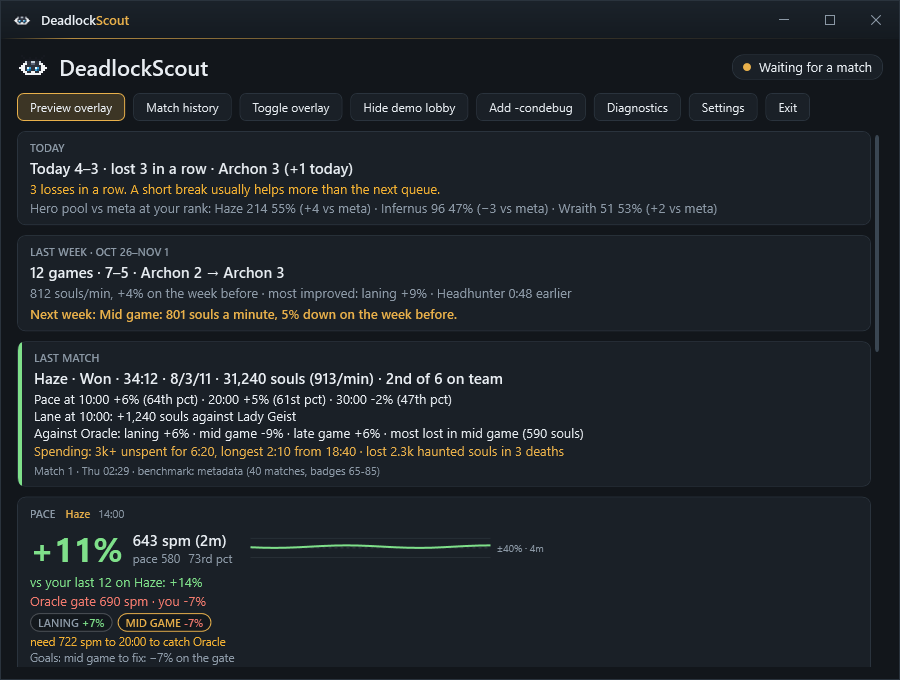
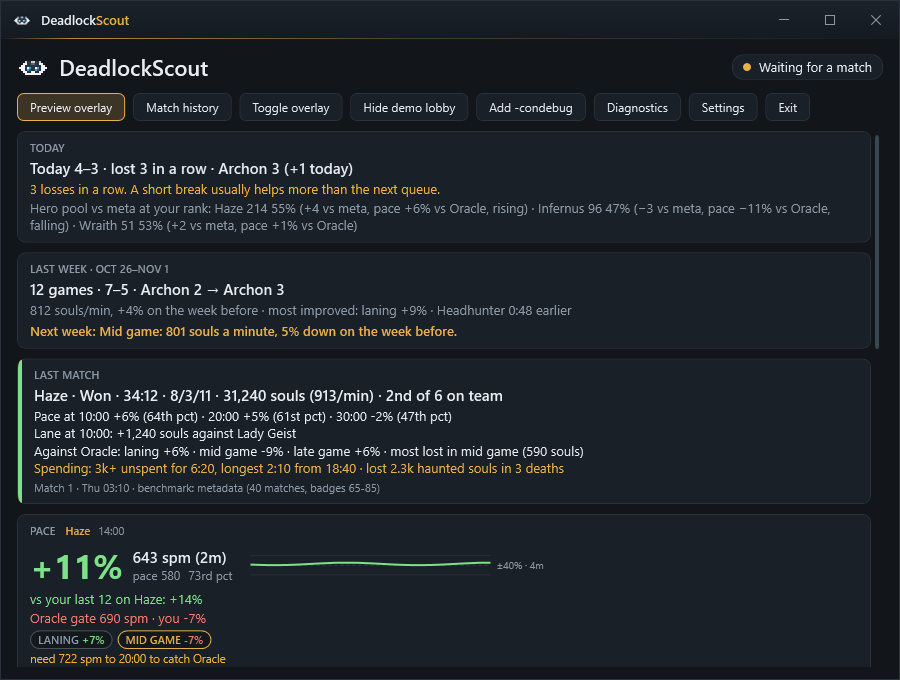
Hero pool: each hero's pace against the rank gate (#146)
* Roadmap: plan 0.4 (spending, enemy item spikes, your hero pool)

Eight lines chosen by the owner on Nov 5: affordable now, enemy item
spikes, lane phase summary and OCR box presets in the match; hero pool,
tilt check, patch changes for you and teammate record between matches.
CLAUDE.md points code work at 0.4 while 0.3's checks wait on a match.

Claude-Session: https://claude.ai/code/session_01LSDkBn23Na5vMSKWLtGadZ

* Roadmap 0.4: build hero pool and tilt check on what the session view has

The session view already lists the most played heroes against the meta
and nudges after three losses in a row; the two lines now add pace per
hero, a pace-based trigger and a tray message on top of those.

Claude-Session: https://claude.ai/code/session_01LSDkBn23Na5vMSKWLtGadZ

* Roadmap 0.4: drop enemy item spikes and the lane phase summary

Both are already in the app: the enemy pace board's power-spike alerts,
and the live phase chips, sparkline legend and post-match lane line.
The OCR presets line says where its boxes come from.

Claude-Session: https://claude.ai/code/session_01LSDkBn23Na5vMSKWLtGadZ

* Hero pool: each hero's pace against the rank gate

The session view's hero pool (most played, win rate against the meta)
now adds each hero's souls against the rank gate over your last ten
games of ten minutes or more on it, and the trend of the newer games
against the older ones: "Abrams 96 47% (−1 vs meta, pace −11% vs
[…]

diff --git a/src/DeadlockScout.Core/Session/SessionMath.cs b/src/DeadlockScout.Core/Session/SessionMath.cs
@@ -1,3 +1,4 @@
+using DeadlockScout.Core.Benchmarks;
 using DeadlockScout.Core.Models;
 
 namespace DeadlockScout.Core.Session;
@@ -14,12 +15,20 @@ public sealed record SessionSummary(int Wins, int Losses, int Streak, int? Badge
 }
 
 /// <summary>One of your most played heroes against how that hero does in your bracket.</summary>
-public sealed record HeroPoolRow(int HeroId, int Matches, int Wins, double? MetaWinRate)
+/// <param name="Pace">Your souls against the rank gate's on this hero over your recent games; null without them or the gate.</param>
+public sealed record HeroPoolRow(int HeroId, int Matches, int Wins, double? MetaWinRate, HeroPace? Pace = null)
 {
     public double WinRate => Matches == 0 ? 0 : (double)Wins / Matches;
     /// <summary>Your win rate minus the hero's meta win rate; null without meta data.</summary>
     public double? VersusMeta => MetaWinRate is { } meta ? WinRate - meta : null;
 }
+
+/// <summary>
+/// Your recent games on a hero against the rank gate: each game's final net worth over the gate curve's at that game's
+/// length, as a fraction (+0.05 = 5% more souls than the gate's players), averaged. <paramref name="Trend"/> is the newer
+/// half's average less the older half's, null under <see cref="SessionMath.MinTrendGames"/> games.
+/// </summary>
+public sealed record HeroPace(int Games, double VersusGate, double? Trend, string GateRank);
 
 /// <summary>Pure session reductions, for tests. Nothing here is stored; the view recomputes on each refresh.</summary>
 public static class SessionMath
@@ -56,6 +65,60 @@ public static class SessionMath
     /// <summary>A gentle nudge after <paramref name="threshold"/> losses in a row; null otherwise or when turned off (0).</summary>
     public static string? Nudge(SessionSummary s, int threshold)
         => threshold > 0 && s.Streak <= -threshold ? $"{-s.Streak} losses in a row. A short break usually helps more than the next queue." : null;
+
+    /// <summary>Games on a hero the pace looks back over, newest first.</summary>
+    public const int PaceGames = 10;
+    /// <summary>Games a hero needs before its trend is said (half of them against the other half).</summary>
+    public const int MinTrendGames = 4;
+    /// <summary>A trend smaller than this either way is "steady".</summary>
+    public const double SteadyTrend = 0.03;
+    /// <summary>Games shorter than this are left out: remakes and early abandons say nothing about pace.</summary>
+    public static readonly TimeSpan MinPaceDuration = TimeSpan.FromMinutes(10);
+
+    /// <summary>
+    /// The pool's rows with <see cref="HeroPoolRow.Pace"/> filled from your match history: your last
+    /// <see cref="PaceGames"/> games of ten minutes or more on each hero, against <paramref name="gate"/>'s curve for that
+    /// hero (null when there is none). Computed at render time, never stored.
+    /// </summary>
+    public static IReadOnlyList<HeroPoolRow> WithPace(IReadOnlyList<HeroPoolRow> pool, IReadOnlyList<MatchHistoryEntry> history,
+                                                      Func<int, PaceCurve?> gate, string gateRank)
+        => pool.Select(row => row with { Pace = Pace(row.HeroId, history, gate(row.HeroId), gateRank) }).ToList();
+
+    public static HeroPace? Pace(int heroId, IReadOnlyList<MatchHistoryEntry> history, PaceCurve? gate, string gateRank)
+    {
+        if (gate is null || gate.Points.Count < 2) return null;
+        var ratios = history
+            .Where(h => h.HeroId == heroId && h.Duration >= MinPaceDuration && h.NetWorth > 0)
+            .OrderByDescending(h => h.StartTime).ThenByDescending(h => h.MatchId)
+            .Take(PaceGames)
+            .Select(h => (Gate: PaceMath.NetWorthAt(gate, h.Duration), h.NetWorth))
+            .Where(x => x.Gate > 0)
+            .Select(x => x.NetWorth / x.Gate - 1)
+            .ToList();
+        if (ratios.Count == 0) return null;
+        double? trend = null;
+        if (ratios.Count >= MinTrendGames)
+        {
+            int half = ratios.Count / 2;
+            trend = ratios.Take(half).Average() - ratios.Skip(ratios.Count - half).Average();
+        }
+        return new HeroPace(ratios.Count, ratios.Average(), trend, gateRank);
+    }
+
+    /// <summary>"pace −6% vs Oracle, rising": the hero pool's pace part, or null without one.</summary>
+    public static string? PaceText(HeroPace? pace)
+    {
+        if (pace is null) return null;
+        string pct = $"{(pace.VersusGate >= 0 ? "+" : "−")}{Math.Abs(pace.VersusGate * 100):0}%";
+        string trend = pace.Trend switch
+        {
+            null => "",
+            > SteadyTrend => ", rising",
+            < -SteadyTrend => ", falling",
+            _ => ", steady",
+        };
+        return $"pace {pct} vs {pace.GateRank}{trend}";
+    }
 
     /// <summary>Your most played heroes (all-time totals), each against its meta win rate in your bracket.</summary>
     public static IReadOnlyList<HeroPoolRow> HeroPool(IEnumerable<PlayerHeroStats> mine, IEnumerable<AnalyticsHeroStats> meta, int count)

diff --git a/tests/DeadlockScout.Tests/Core/SessionTests.cs b/tests/DeadlockScout.Tests/Core/SessionTests.cs
@@ -1,4 +1,5 @@
 using DeadlockScout.Core.Abstractions;
+using DeadlockScout.Core.Benchmarks;
 using DeadlockScout.Core.Models;
 using DeadlockScout.Core.Session;
 using DeadlockScout.Core.Settings;
@@ -115,5 +116,59 @@ public class SessionTests
         var partial = (await failing.RefreshAsync(1000, default))!;
         Assert.Empty(partial.HeroPool);
         Assert.Equal(5, partial.Today.Games);
+    }
+
+    private static PaceCurve Gate(int heroId) => new(heroId, new RankBracket(80, 89), "v1",
+        Enumerable.Range(0, 51).Select(m => new PacePoint(m, null, null, null, m * 1000)).ToList(), 1000, "analytics"); // 1,000 souls a minute
+
+    private static MatchHistoryEntry Game(long id, int hero, int minutes, int netWorth) => History[0] with
+    {
+        MatchId = id, HeroId = hero, Duration = TimeSpan.FromMinutes(minutes), NetWorth = netWorth,
+        StartTime = DateTimeOffset.Parse("2026-10-20T20:00Z").AddHours(id),
+    };
+
+    [Fact]
+    public void Hero_pace_is_each_recent_game_against_the_gate_at_its_length_with_a_trend()
+    {
+        var games = new[]
+        {
+            Game(1, 13, 30, 27_000), Game(2, 13, 30, 27_000),   // older: 10% under the gate
+            Game(3, 13, 20, 22_000), Game(4, 13, 40, 44_000),   // newer: 10% over, whatever the game's length
+            Game(5, 13, 5, 1_000),                              // a remake: left out
+            Game(6, 1, 30, 30_000),                             // another hero
+        };
+        var pace = SessionMath.Pace(13, games, Gate(13), "Oracle")!;
+        Assert.Equal(4, pace.Games);
+        Assert.Equal(0.0, pace.VersusGate, 6);
+        Assert.Equal(0.2, pace.Trend!.Value, 6);
+        Assert.Equal("pace +0% vs Oracle, rising", SessionMath.PaceText(pace));
+
+        var few = SessionMath.Pace(13, games.Take(3).ToList(), Gate(13), "Oracle")!;
+        Assert.Null(few.Trend);                                  // three games: no trend yet
+        Assert.Equal("pace −3% vs Oracle", SessionMath.PaceText(few));
+        Assert.Null(SessionMath.Pace(13, games, null, "Oracle"));  // no gate curve for the hero
+        Assert.Null(SessionMath.Pace(7, games, Gate(7), "Oracle")); // no games on it
+        Assert.Equal("pace −12% vs Oracle, falling", SessionMath.PaceText(new HeroPace(6, -0.12, -0.05, "Oracle")));
+        Assert.Equal("pace +4% vs Oracle, steady", SessionMath.PaceText(new HeroPace(6, 0.04, 0.01, "Oracle")));
+    }
+
+    private sealed class GateStub : IPaceBenchmark
+    {
+        public RankBracket? Asked;
+        public int Priority => 1;
+        public string Name => "analytics";
+        public Task<PaceCurve?> GetAsync(int heroId, RankBracket bracket, CancellationToken ct) { Asked = bracket; return Task.FromResult<PaceCurve?>(Gate(heroId)); }
+    }
+
+    [Fact]
+    public async Task Service_adds_the_gate_pace_to_the_hero_pool()
+    {
+        var gate = new GateStub();
+        var svc = new SessionService(new SessionApi(), new ScoutingServiceTests.MemoryCacheStub(), new Patch(), new Clock(),
+            new ApiClientTests.StaticOptions(new ScoutSettings()), Zone, gate: gate);
+        var row = (await svc.RefreshAsync(1000, default))!.HeroPool.Single();
+        Assert.NotNull(gate.Asked);
+        Assert.Equal(RankGoal.Bracket(RankGoal.Resolve(new GoalSettings(), 73)), gate.Asked);  // the tier above badge 73
+        Assert.Equal(RankGoal.Name(RankGoal.Resolve(new GoalSettings(), 73)), row.Pace?.GateRank);
     }
 }

diff --git a/src/DeadlockScout.Core/Session/SessionService.cs b/src/DeadlockScout.Core/Session/SessionService.cs
@@ -26,10 +26,16 @@ public sealed class SessionService
     private readonly IOptionsMonitor<ScoutSettings> _settings;
     private readonly TimeZoneInfo _zone;
     private readonly ILogger _log;
+    private readonly IPaceBenchmark? _gate;
 
+    /// <param name="gate">
+    /// The rank gate's curves (the analytics provider: one cached pass per bracket answers every hero), for the hero
+    /// pool's pace; null leaves it out.
+    /// </param>
     public SessionService(IDeadlockApi api, ICache cache, IPatchKeyProvider patch, IClock clock, IOptionsMonitor<ScoutSettings> settings,
-                          TimeZoneInfo? zone = null, ILogger<SessionService>? log = null)
+                          TimeZoneInfo? zone = null, ILogger<SessionService>? log = null, IPaceBenchmark? gate = null)
     {
+        _gate = gate;
         _api = api;
         _cache = cache;
         _patch = patch;
@@ -62,6 +68,18 @@ public sealed class SessionService
         }
         catch (OperationCanceledException) when (ct.IsCancellationRequested) { throw; }
         catch (Exception ex) { _log.LogDebug(ex, "Hero pool unavailable"); }
+
+        // Each hero's recent pace against the rank gate; the pool still shows without it.
+        if (_gate is not null && pool.Count > 0)
+            try
+            {
+                int tier = RankGoal.Resolve(cfg.Goal, today.BadgeNow);
+                var curves = new Dictionary<int, PaceCurve?>();
+                foreach (var row in pool) curves[row.HeroId] = await _gate.GetAsync(row.HeroId, RankGoal.Bracket(tier), ct).ConfigureAwait(false);
+                pool = SessionMath.WithPace(pool, history, h => curves.GetValueOrDefault(h), RankGoal.Name(tier));
+            }
+            catch (OperationCanceledException) when (ct.IsCancellationRequested) { throw; }
+            catch (Exception ex) { _log.LogDebug(ex, "Hero pool pace unavailable"); }
 
         return new SessionView(today, SessionMath.Nudge(today, cfg.Session.LossStreakNudge), pool, bracket);
     }

diff --git a/src/DeadlockScout.App/Services/DemoLobby.cs b/src/DeadlockScout.App/Services/DemoLobby.cs
@@ -131,7 +131,13 @@ public static class DemoLobby
             new[] { new AbilityOrderStat(order, times, 5501, 3110) }));
         // Today so far, after a couple of losses: the nudge shows from three in a row by default.
         state.SetSession(new SessionView(new SessionSummary(4, 3, -3, 73, 72, DateTimeOffset.Now.Date), SessionMath.Nudge(new SessionSummary(4, 3, -3, 73, 72, DateTimeOffset.Now.Date), 3),
-            new[] { new HeroPoolRow(13, 214, 118, 0.512), new HeroPoolRow(1, 96, 45, 0.497), new HeroPoolRow(7, 51, 27, 0.505) }, new RankBracket(63, 83)), assets, demo: true);
+            new[]
+            {
+                // Haze ahead of the gate and rising; Abrams wins about as often as the meta but farms well under the gate.
+                new HeroPoolRow(13, 214, 118, 0.512, new HeroPace(10, 0.06, 0.05, "Oracle")),
+                new HeroPoolRow(1, 96, 45, 0.497, new HeroPace(10, -0.11, -0.04, "Oracle")),
+                new HeroPoolRow(7, 51, 27, 0.505, new HeroPace(3, 0.01, null, "Oracle")),
+            }, new RankBracket(63, 83)), assets, demo: true);
         // Last week, made up: a winning week with a rank up, laning and Headhunter better than the week before, and
         // mid game the thing to work on.
         state.SetWeekly(new WeeklyReport(DateOnly.FromDateTime(WeeklySummary.LastWeekStart(DateTimeOffset.Now, TimeZoneInfo.Local).Date),

diff --git a/src/DeadlockScout.App/Program.cs b/src/DeadlockScout.App/Program.cs
@@ -413,7 +413,8 @@ public static class Program
             () => sp.GetRequiredService<GamePaths>().SteamPath is { } steam && new SteamHttpCache(steam).Exists));
         // Session view: today's results, rank change, loss-streak nudge, hero pool against the meta.
         services.AddSingleton(sp => new SessionService(sp.GetRequiredService<IDeadlockApi>(), sp.GetRequiredService<ICache>(), sp.GetRequiredService<IPatchKeyProvider>(),
-            sp.GetRequiredService<IClock>(), sp.GetRequiredService<IOptionsMonitor<ScoutSettings>>(), log: sp.GetService<ILogger<SessionService>>()));
+            sp.GetRequiredService<IClock>(), sp.GetRequiredService<IOptionsMonitor<ScoutSettings>>(), log: sp.GetService<ILogger<SessionService>>(),
+            gate: sp.GetServices<IPaceBenchmark>().FirstOrDefault(p => p.Name == AnalyticsBucketBenchmark.ProviderName)));
         services.AddHostedService<SessionRefreshService>();
         services.AddSingleton<PostMatchCoordinator>();
         services.AddHostedService(sp => sp.GetRequiredService<PostMatchCoordinator>());

diff --git a/src/DeadlockScout.App/ViewModels/OverlayState.cs b/src/DeadlockScout.App/ViewModels/OverlayState.cs
@@ -264,8 +264,12 @@ public sealed class OverlayState
         Session.Today = string.Join(" · ", parts);
         Session.Nudge = v.Nudge ?? "";
         Session.HeroPool = v.HeroPool.Count == 0 ? "" : "Hero pool vs meta at your rank: " + string.Join(" · ", v.HeroPool.Select(h =>
-            $"{assets.HeroName(h.HeroId)} {Format.Count(h.Matches)} {Format.Pct(h.WinRate)}" +
-            (h.VersusMeta is { } d ? $" ({(d >= 0 ? "+" : "−")}{Math.Abs(d * 100):0} vs meta)" : "")));
+        {
+            var notes = new List<string>();
+            if (h.VersusMeta is { } d) notes.Add($"{(d >= 0 ? "+" : "−")}{Math.Abs(d * 100):0} vs meta");
+            if (SessionMath.PaceText(h.Pace) is { } pace) notes.Add(pace);   // "pace −6% vs Oracle, falling"
+            return $"{assets.HeroName(h.HeroId)} {Format.Count(h.Matches)} {Format.Pct(h.WinRate)}" + (notes.Count > 0 ? $" ({string.Join(", ", notes)})" : "");
+        }));
         Session.HasData = true;
     }
 

diff --git a/docs/features.md b/docs/features.md
@@ -14,7 +14,7 @@ window.
 - **Real-time souls by OCR** (M6, opt in): draw boxes over your soul count and the match clock, and the built-in Windows OCR reads them once a second, so your pace no longer lags the broadcast by a minute. The HUD's counter is your unspent souls, so the app adds the price of the items the broadcast says you hold, and of anything you bought since (a drop of about one item's price, read twice), to make it your net worth, which is what the pace curves count (0.3); haunted souls (unsecured: spendable, lost if you die), shown in a smaller line under the count, are read and added to your unspent souls, and the "SOULS" label beside the count is left out (0.3.1); Diagnostics' "OCR net worth" line says how close that came to the broadcast's once it caught up. While you are dead the game shows a teammate's souls in your HUD's place; those readings are held back (up to two minutes by the PC's clock, so a misread match clock cannot cut the hold short) and dropped, so cycling through teammates no longer moves your souls per minute. The clock read off the HUD has to follow the last good one (never backwards, never further ahead than the real time since), so a misread clock ("22:52" for 12:52) never places your souls at the wrong time: one digit off, it is put right to the clock that was due (0.3.3; OCR mixes up 9 and 0, 7 and 3, 1 and 2), and further off its whole reading is dropped; the log counts the clock readings ignored. The calibration tool reads the selected box live and says what is wrong with it: red when the reading is not a number (or a clock), gold when the box also reads something besides the number ("768 9": a stray glyph) or when its readings jump in a way the game never does (768 then 7,689: the soul icon read as a digit now and then), blue with "steady" when it reads cleanly. **Glyph reader** (0.3): each steady reading also teaches the app the HUD's digits, and once it knows all ten it reads the souls and the clock itself, a few pixels' comparison instead of a full OCR engine, asking Windows OCR only for a box it cannot read clearly (so with clean boxes Windows OCR never even loads). The clock and the souls count are drawn in different fonts, so each box learns its own digits (0.3.1): keep the match clock selected in the tool for ten seconds or so while it ticks and it learns the clock's; the souls count learns its own as your souls change, in the tool or during a match from readings that pass the app's checks. The tool's line under the reading says what the selected box still misses, and **Teach this box again** under it forgets that box's glyphs to learn them afresh (after a patch changed the HUD font) (0.3.3). During a match, a box that reads nothing for 45 s while the game is in front (drawn wrong, or the HUD moved) is named once in the tray (0.3.3); a click opens the calibration tool. The souls box's preview outlines what is read (0.3.3): the count in blue, the soul icon in grey once the glyph reader has learned it (an extra glyph left of the number that the readings never include; from then on it is cut off before every read, so the box may start at the icon), and haunted souls in red. Diagnostics shows how many reads it answers, and asks for a recalibration when most of them fall back (a patch changed the HUD font). `ocr.glyphReader` in Settings → OCR turns it off. The enemy scoreboard boxes of earlier versions are gone (0.3.4): nothing read them, and the scoreboard shows souls only to the thousand ("11k"), where the enemy pace board already has every enemy's exact souls from the broadcast. Only those boxes are ever captured, never the rest of the screen, and nothing while OCR is off. Needs Windows 10 2004 or later and a Windows language with OCR support (English is).
 - **Post-match report**: result, K/D/A, souls per minute, where you ranked on your team, your pace against the benchmark at 10, 20 and 30 minutes, how your lane went, and each phase against the rank above yours ("Against Oracle: laning +6% · mid game −9% · late game +6% · most lost in mid game"), shown in the main window and as a tray notice once deadlock-api has the match. Replay salts from your Steam cache are sent to deadlock-api automatically (once per match; `ingest.autoSubmitSalts`) so your matches get on record; they land in Steam's cache when you open a match in Deadlock's in-game match history, and **Send my matches to deadlock-api** in the match history sends them at once and says what it found (Diagnostics shows the last scan).
 - **Match history**: your last 20 games with your rank over 30 days, win rate, KDA, main heroes and the last 15 results, then a card per game (result, hero, K/D/A, final items, souls and souls per minute, last hits, where your souls ranked on your team, both teams). Each card puts your total souls beside the K/D/A. Open a game for its **soul timeline** (your souls through the match, with every item you bought marked where you bought it, coloured by slot, and a dashed **rank gate**: the average souls on that hero of a rank you pick from a drop-down, Eternus down to Alchemist, starting on the tier above yours, with how far above or below it you finished, split into laning, mid game and late game chips; the timeline marks the three phases) and its **item purchases** in order, sold ones included. An **item timings** card lists the items you buy most with your average buy time against the rank gate's ("Headhunter 13:58 · Oracle 12:07 · +1:51"), and names the item furthest behind; each purchase on an opened game shows the rank's time and your gap too. A **phases** card pools laning (0–10 min), mid game (10–20) and late game (20+) over the page's games against the rank gate: your souls per minute and the rank's in each, how many souls a game you are behind or ahead, and which phase costs you the most. Above the cards, **trends** over your last 20, 50 or 100 games, for all heroes or one: rolling win rate and souls per minute (each game a dot coloured by result), the older half against the newer half for win rate, souls per minute and KDA, and a row per hero (games, W–L, win rate, KDA, souls per minute, last played), all from the history already fetched. **Soul sources**: an opened game lists where its souls came from (troopers, jungle, kills, objectives, the rest, and what you lost on death), each against the rank gate, and a card over the page names the source that costs you the most souls a game ("Troopers cost you the most: 1.2k souls a game behind Oracle"). **Weekly summary**: a "last week" card in the main window sets your last full week against the week before (games, record, rank change, souls per minute, the phase and item that improved most) and names one thing to work on next week. **Goals**: set your own targets in the match history (laning pace by 10:00, at most so many deaths in laning, a phase to fix against the rank gate); every game is marked hit or missed, and the card shows each target's hit rate over your last 20 games with a dot per game. During a match (0.3) the pace strip checks them live under the phase chips: "Goals: on track for 420 spm by 10:00 · one laning death left" (or the pace the rest of laning needs), then, while the phase you chose to fix is on, "mid game to fix: −7% on the gate". Your deaths come from the broadcast; not while spectating; `overlay.panels.liveGoals` turns it off. **Unspent souls** (0.3): from 3,000 souls not spent (Settings → Overlay, `coaching.unspentSouls`; 0 turns it off) the pace strip says "3.4k unspent: spend before you fight", live from the HUD's counter with OCR on, else from the broadcast's net worth less the items held, with its game time since it is about 35 s late. **Haunted souls at risk** (0.3.3): haunted souls are lost if you die, so from 1,000 of them (`coaching.hauntedSouls`, read by OCR) the line adds "1.1k of it haunted, lost if you die", or says "1.2k haunted souls: lost if you die, spend or secure them" on its own. **Souls lost at a death** (0.3.3): when the haunted line vanishes and your unspent souls fall by about as much, a death took them, and the pace strip says "Died at 14:20: lost 1,051 haunted souls" for half a minute (OCR only). **Spending recap** (0.3.3): the last match's card adds "Spending: 3k+ unspent for 6:20, longest 2:10 from 18:40 · lost 2.3k haunted souls in 3 deaths", from that match's soul readings. **Death review**: each death on an opened game with the souls you were carrying unspent (red at 3k or more) and a cross on the soul timeline, the souls the rank gate gained while you were dead, and a card over the page ("Spend before you fight: 9 of 24 deaths came with 3k or more souls unspent"). **Counter notes**: an opened game lists each enemy hero with their counter items for the hero you played (the same measured items as the scout list's [!] tags, up to three, each marked bought or not in that game), and a **heroes that beat you** card names the enemy heroes you lose to most over the page (your W–L with them in the enemy line-up) with their counter items. One cached call per hero pair, made when a game is first opened. One bulk call fetches the games not seen before; a finished game is cached for good. **Processing cards**: a game you just played shows at the top straight away (hero, when, roughly how long), even before deadlock-api lists it in your history, which can take hours; it becomes a full card as soon as the API has the match, and the post-match follow-up asks deadlock-api to fetch it from Steam twice (8 and 60 minutes after the match) when nobody else has sent it. From the main window or the tray.
-- **Session view**: today's wins and losses, your streak, how your rank moved, a nudge after three losses in a row, and your most played heroes against their meta win rate at your rank. In the overlay only outside a match, and in the main window.
+- **Session view**: today's wins and losses, your streak, how your rank moved, a nudge after three losses in a row, and your most played heroes against their meta win rate at your rank. Each hero also gets its **pace against the rank gate** (0.4): your last ten games of ten minutes or more on it, each game's souls against what the gate's players have at that game's length, averaged, with the trend of the newer games against the older ones ("Abrams 96 47% (−1 vs meta, pace −11% vs Oracle, falling)"), so a hero that wins about as often as the meta but farms well under the gate shows. The gate's curves come from the same cached call as the overlay's gate line. In the overlay only outside a match, and in the main window.
 - **Benchmarks ready at match start**: between matches the app prefetches the accurate and personal pace curves for the heroes you play most.
 - **Team souls lead** (0.3): at the top of the enemy pace board, one line with both teams' souls from the broadcast and how the gap moved over the last three minutes ("Souls: Enemy +2.1k, growing · 14:00"; "closing" when the trailing team gains, "steady" within 500), so a fight or an objective that swung the game shows. As late as everything from the broadcast, so it carries its game time; shown once every player has been seen; spectating it names Amber or Sapphire. `overlay.panels.teamLead` turns it off.
 - **Enemy pace board and lane card**, with **power-spike alerts**: when an enemy buys a 6,400-soul item, one of the items that lift their hero's win rate most at your rank, or unlocks their ultimate, their row flashes "just got Leech" for 30 seconds and then keeps the item as a chip with its icon. Beside it, **what they usually buy next**: the big item each enemy buys in at least half of their games on that hero, with their usual time ("next: Boundless Spirit ~34:08"), until they have it (hover for their whole usual order). One analytics call per enemy, cached a day; `overlay.panels.enemyTendencies` turns it off. Items come from the Direct live feed (the hosted feed has none); `overlay.panels.spikes` turns it off (see the milestones in [`docs/architecture-seed.md`](architecture-seed.md)).

diff --git a/docs/roadmap.md b/docs/roadmap.md
@@ -312,9 +312,12 @@ In the match:
 
 Between matches:
 
-- [ ] Hero pool by pace: the session view's hero pool (most played, win rate against the meta at your rank) gains each
+- [x] Hero pool by pace: the session view's hero pool (most played, win rate against the meta at your rank) gains each
   hero's souls per minute over your recent games on it against the rank gate, and its trend, so the heroes holding you
-  back show even when their win rate looks fine. From the match history the app already keeps.
+  back show even when their win rate looks fine. From the match history the app already keeps. *Nov 5:
+  `SessionMath.Pace`: the last ten games of 10 minutes or more on the hero, each one's net worth over the gate curve's
+  at its length; trend is the newer half against the older half, "steady" within 3%. The analytics provider's curves,
+  one cached pass per bracket, so no new call.*
 - [ ] Tilt check: the session view's break nudge (three losses in a row, `session.lossStreakNudge`) also notices pace
   under the rank gate three games running, and is said once a session as a tray message between matches, never during
   one, instead of only in the session view.
